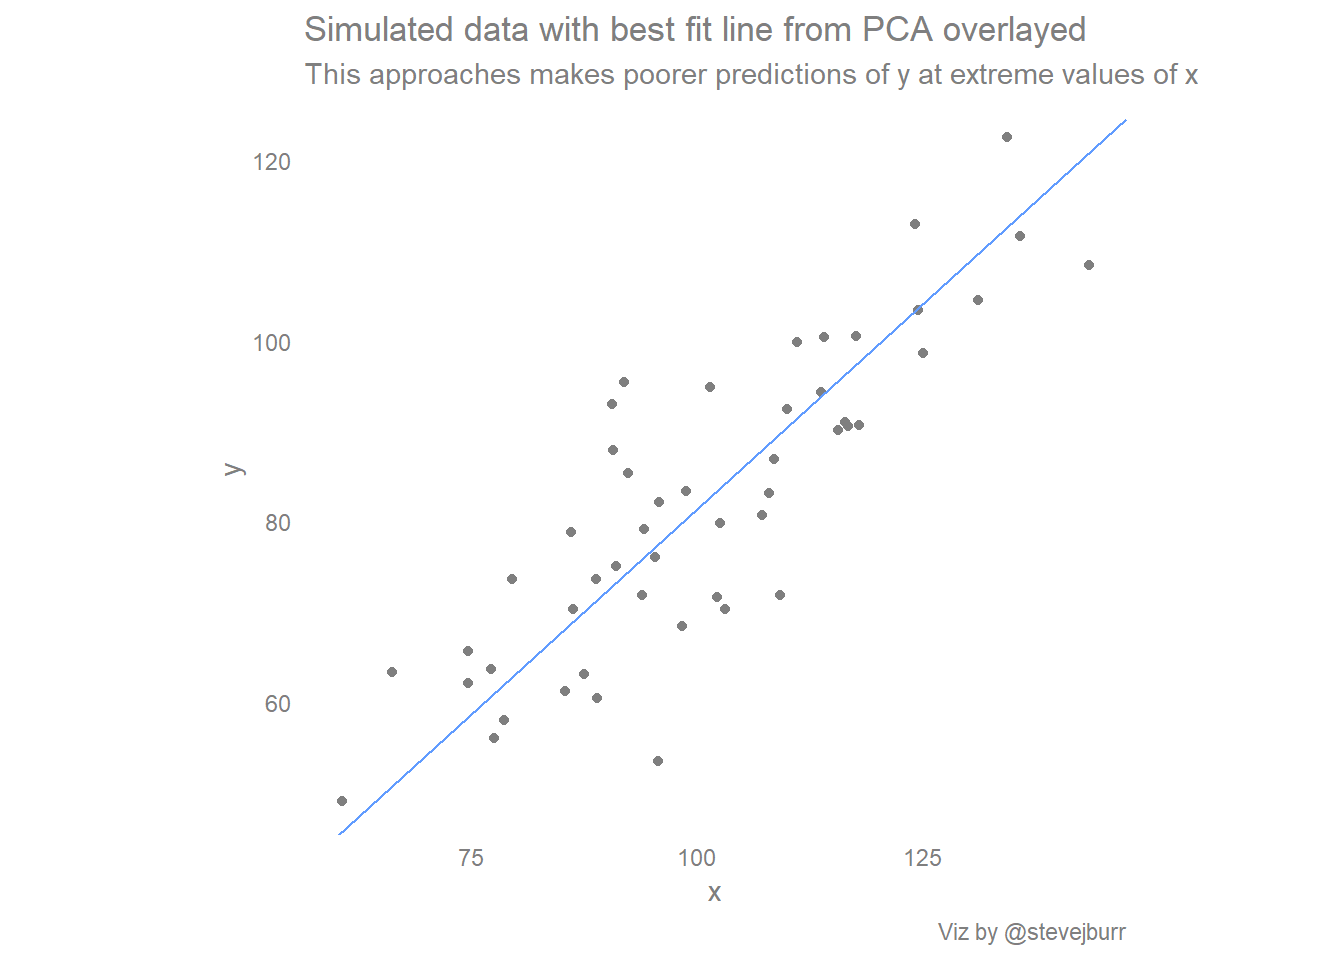
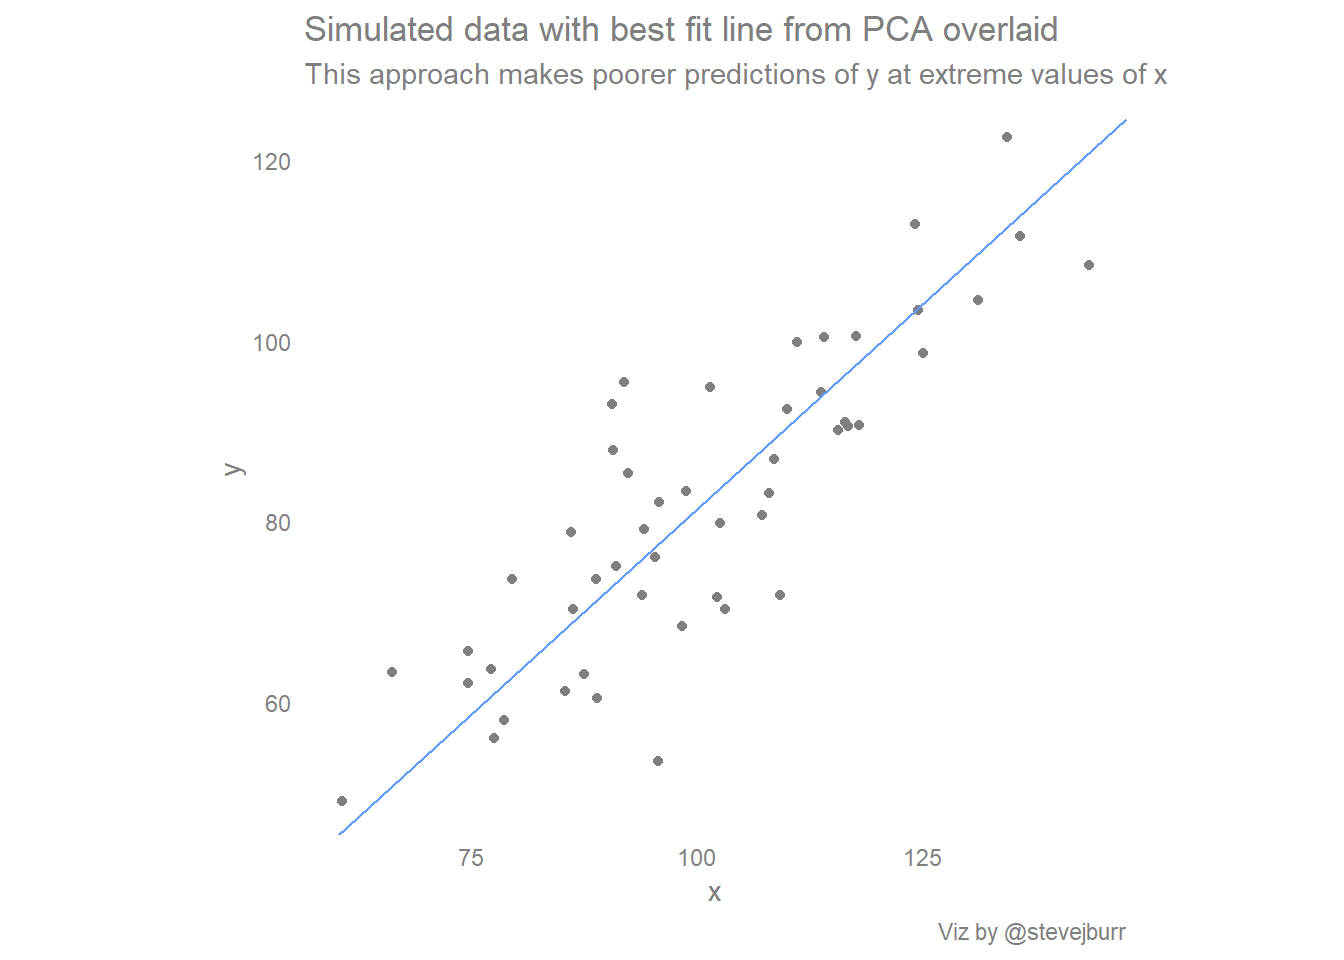
Updated spelling mistakes in linear regression post

Changed region(s): [[0.375, 0.0, 0.875, 0.0938]]

diff --git a/content/post/2019-03-27-scatter-plots-and-best-fit-lines.html b/content/post/2019-03-27-scatter-plots-and-best-fit-lines.html
@@ -1,7 +1,7 @@
 ---
 title: Scatter plots, best fit lines (and regression to the mean)
 author: Steve Burr
-date: '2019-03-27'
+date: '2019-03-31'
 slug: scatter-plots-and-best-fit-lines
 categories:
   - Statistics
@@ -13,7 +13,7 @@ tags: []
 
 
 
-<p>Last week I came across an interesting conversation on twitter, which raiased something I hadn’t thought about before:</p>
+<p>Last week I came across an interesting conversation on twitter, which raised something I hadn’t thought about before:</p>
 {{% tweet "1107680006476578818" %}}
 <p>There were a number of good responses, including links to a few blog posts digging into how all this works, but I wanted to try and summarise what I think are the most important points and have a go at putting together my own versions of the visualisations.</p>
 <p>In short, if I have a scatter plot of some data, there are at least three different ways to put a line of best fit through the data -</p>
@@ -51,7 +51,7 @@ basic_scatter + labs(title=&quot;Scatter plot of simulated data where x partly d
 </div>
 <div id="the-linear-regression-line" class="section level4">
 <h4>The linear regression line</h4>
-<p>Lets start with the standard “best fit” line, the regression line which predicts y from x:</p>
+<p>Let’s start with the standard “best fit” line, the regression line which predicts y from x:</p>
 <pre class="r"><code>#fit the model
 line1 &lt;- lm(y~x)$coef
 #extract the slope from the fitted model
@@ -74,7 +74,7 @@ ggplot(data) +
         legend.text=element_text(colour=&quot;grey50&quot;)) -&gt; scatter_with_yx #this plot is saved for later
 
 #print the plot
-scatter_with_yx + labs(title=&quot;Linear regression fit y~x overlayed on simulated data&quot;,caption=&quot;Viz by @stevejburr&quot;)</code></pre>
+scatter_with_yx + labs(title=&quot;Linear regression fit y~x overlaid on simulated data&quot;,caption=&quot;Viz by @stevejburr&quot;)</code></pre>
 <p><img src="/post/2019-03-27-scatter-plots-and-best-fit-lines_files/figure-html/unnamed-chunk-5-1.png" width="672" /></p>
 </div>
 <div id="what-is-the-standard-regression-line-doing" class="section level4">
@@ -88,7 +88,7 @@ scatter_with_yx + labs(title=&quot;Linear regression fit y~x overlayed on simula
 <img src="/post/2019-03-27-scatter-plots-and-best-fit-lines_files/Galton&#39;s_correlation_diagram_1875.jpg" alt="Galton’s linear regression analysis of parent and child heights - Source: Wikipedia" />
 <p class="caption">Galton’s linear regression analysis of parent and child heights - Source: Wikipedia</p>
 </div>
-<p>This comes down to the random part of the model which isn’t captured by the coefficients. When someone is exceptionally tall, the model says that this is partly due to underlying factors we can measure (e.g. genetics - approximated by parent height) but also partly driven by random chance. In other words, a very tall parent may pass on the genetic traits for being tall but not the specific combination of other random factors which led to their exceptional height - luck is not inheritted!</p>
+<p>This comes down to the random part of the model which isn’t captured by the coefficients. When someone is exceptionally tall, the model says that this is partly due to underlying factors we can measure (e.g. genetics - approximated by parent height) but also partly driven by random chance. In other words, a very tall parent may pass on the genetic traits for being tall but not the specific combination of other random factors which led to their exceptional height - luck is not inherited!</p>
 <p>Effects like this can be seen in all sorts of fields, for example sports (see the “Sports Illustrated Cover Curse”), company performance and performance of fund managers. When you measure over time, you tend to see that the best performers in one time period tend to do worse in subsequent periods (and vice versa, the worst performers will tend to do better than next year). One aspect of their performance is down to underlying skills / fundamentals but what makes them exceptional in one year is the extra element of good or bad luck.</p>
 <p>These examples help to give some real world intuition to this concept (and help you reason about the future from what you’ve observed in the past) but we can look at this in more abstract terms. This is well explained in Gelman/Hill’s regression analysis book, and I’ve tried to illustrate their example in the next visualisation.</p>
 <p>The code to do this is a little bit longer than the previous plots, but most of it deals with standardisation of the variables. This means that we subtract the mean of each variable from each observation of that variable, so the values are centered about 0, which now represents the average value. We also divide each value by the standard deviation, meaning each value shows how many standard deviations away from the mean each observation is. As the data is simulated from a normal distribution, nearly all of the values will lie between -3/+3, with the vast majority between -2/+2.</p>
@@ -149,7 +149,7 @@ data %&gt;%
 #add the conditional means to the existing scatter plot:
 scatter_with_yx +
   geom_segment(data=condMeans,
-               aes(x=min_x,xend=max_x,y=y_bar,yend=y_bar))+ labs(title=&quot;Linear regression fit y~x overlayed on simulated data&quot;,
+               aes(x=min_x,xend=max_x,y=y_bar,yend=y_bar))+ labs(title=&quot;Linear regression fit y~x overlaid on simulated data&quot;,
                                                                  subtitle=&quot;The line matches closely to conditional means evaluated across bands of x values&quot;,caption=&quot;Viz by @stevejburr&quot;)</code></pre>
 <p><img src="/post/2019-03-27-scatter-plots-and-best-fit-lines_files/figure-html/unnamed-chunk-7-1.png" width="672" /></p>
 </div>
@@ -204,8 +204,8 @@ pca.intercept &lt;- mean(y) - (pca.slope * mean(x))</code></pre>
         axis.title=element_text(colour=&quot;grey50&quot;),
         axis.text=element_text(colour=&quot;grey50&quot;),
         legend.text=element_text(colour=&quot;grey50&quot;)) +
-  labs(title=&quot;Simulated data with best fit line from PCA overlayed&quot;,
-       subtitle=&quot;This approaches makes poorer predictions of y at extreme values of x&quot;,
+  labs(title=&quot;Simulated data with best fit line from PCA overlaid&quot;,
+       subtitle=&quot;This approach makes poorer predictions of y at extreme values of x&quot;,
        caption=&quot;Viz by @stevejburr&quot;)</code></pre>
 <p><img src="/post/2019-03-27-scatter-plots-and-best-fit-lines_files/figure-html/unnamed-chunk-11-1.png" width="672" /></p>
 <p>If you draw the natural line in your head, then you can think of the standard regression line as being produced by pulling the ends of the natural line towards the center of the data to moderate the predictions. I think this is a nice, intuitive way of thinking about these different approaches which captures a lot of the reasons behind the differences.</p>
@@ -234,7 +234,7 @@ ggplot(data) +
         axis.title=element_text(colour=&quot;grey50&quot;),
         axis.text=element_text(colour=&quot;grey50&quot;),
         legend.text=element_text(colour=&quot;grey50&quot;)) +
-  labs(title=&quot;Simulated data with best fit line x~y overlayed&quot;,
+  labs(title=&quot;Simulated data with best fit line x~y overlaid&quot;,
        caption=&quot;Viz by @stevejburr&quot;)</code></pre>
 <p><img src="/post/2019-03-27-scatter-plots-and-best-fit-lines_files/figure-html/unnamed-chunk-12-1.png" width="672" /></p>
 </div>
@@ -342,8 +342,8 @@ data %&gt;%
 <h4>Conclusion</h4>
 <p>There are multiple ways of drawing a line of best fit through a simple (x,y) scatter plot, and each make different assumptions about the underlying relationships between the two variables.</p>
 <p>If the goal is prediction of y from x, when it likely that the relationship between the two variables does run in that direction, then the least squares / linear regression fit will give the most reliable estimates of y throughout the full range of x.</p>
-<p>It has been suggested that the most natural line that people draw by eye is in fact the orthogonal regression (PCA) line, if that is indeed the case then this will lead to over estimates of the correlation between two variables and a tendency for estimates done “by eye” to be too low for small values and two high for larger values (when there is a positive correlation between the two variables).</p>
-<p>This is worth keeping in mind when doing exploratory analysis by hand, and explictly drawing on standard linear regression lines may help to avoid mistakes when interpretting these relationships.</p>
+<p>It has been suggested that the most natural line that people draw by eye is in fact the orthogonal regression (PCA) line. If that is indeed the case then this will lead to over estimates of the correlation between two variables and a tendency for estimates done “by eye” to be too low for small values and too high for larger values (when there is a positive correlation between the two variables).</p>
+<p>This is worth keeping in mind when doing exploratory analysis by hand, and explictly drawing on standard linear regression lines may help to avoid mistakes when interpreting these relationships.</p>
 <p><strong>References</strong></p>
 <ul>
 <li><a href="https://benediktehinger.de/blog/science/scatterplots-regression-lines-and-the-first-principal-component/" class="uri">https://benediktehinger.de/blog/science/scatterplots-regression-lines-and-the-first-principal-component/</a></li>
